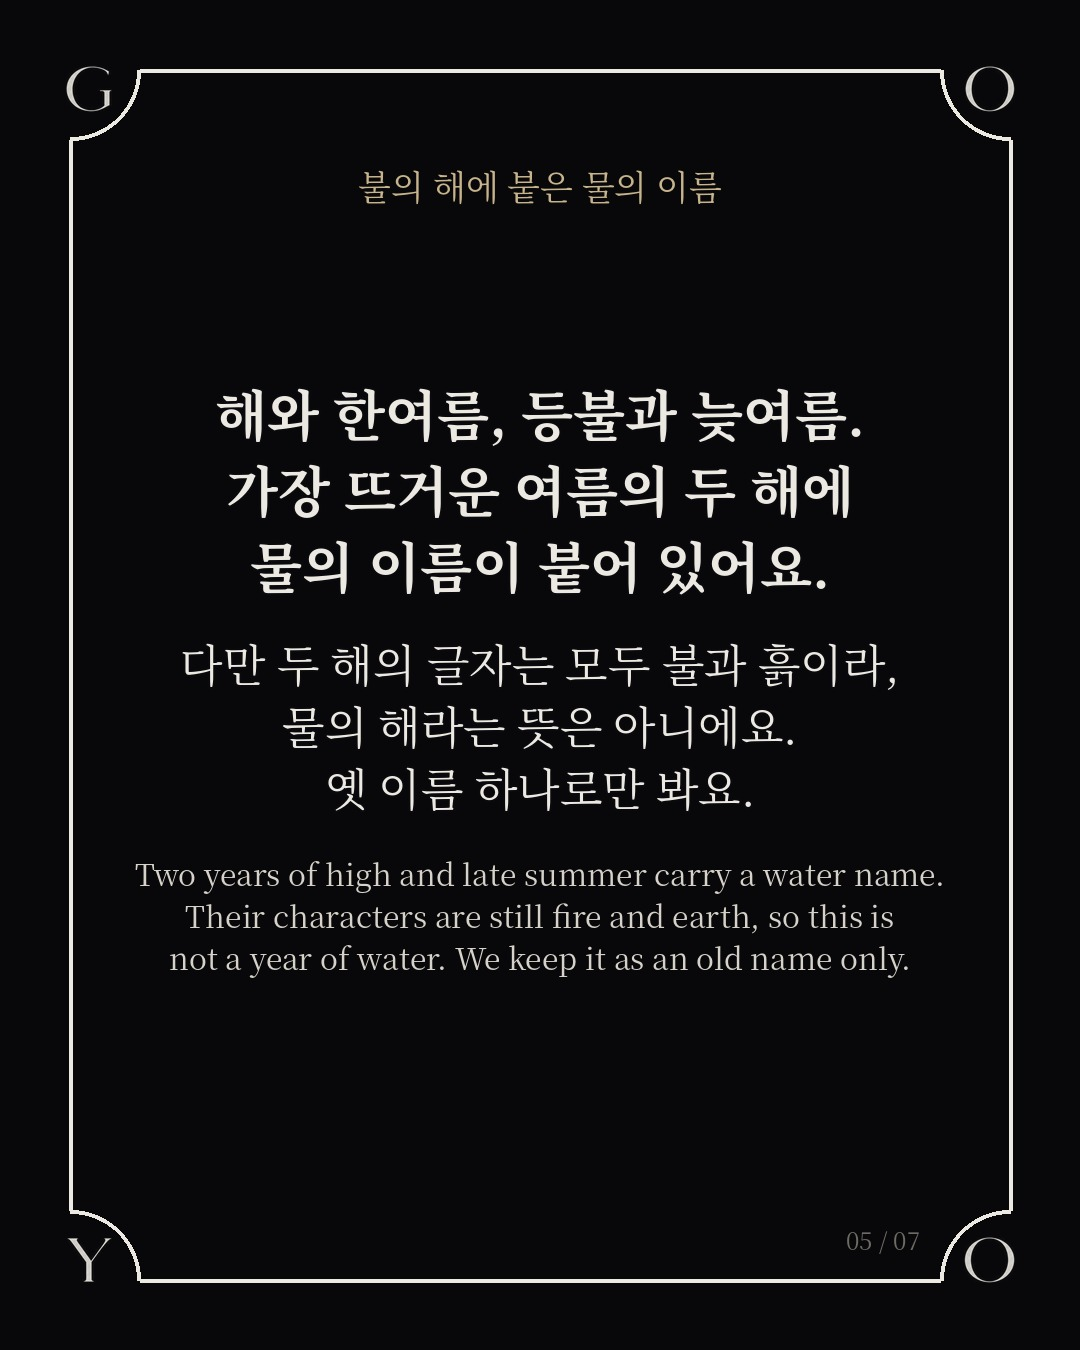
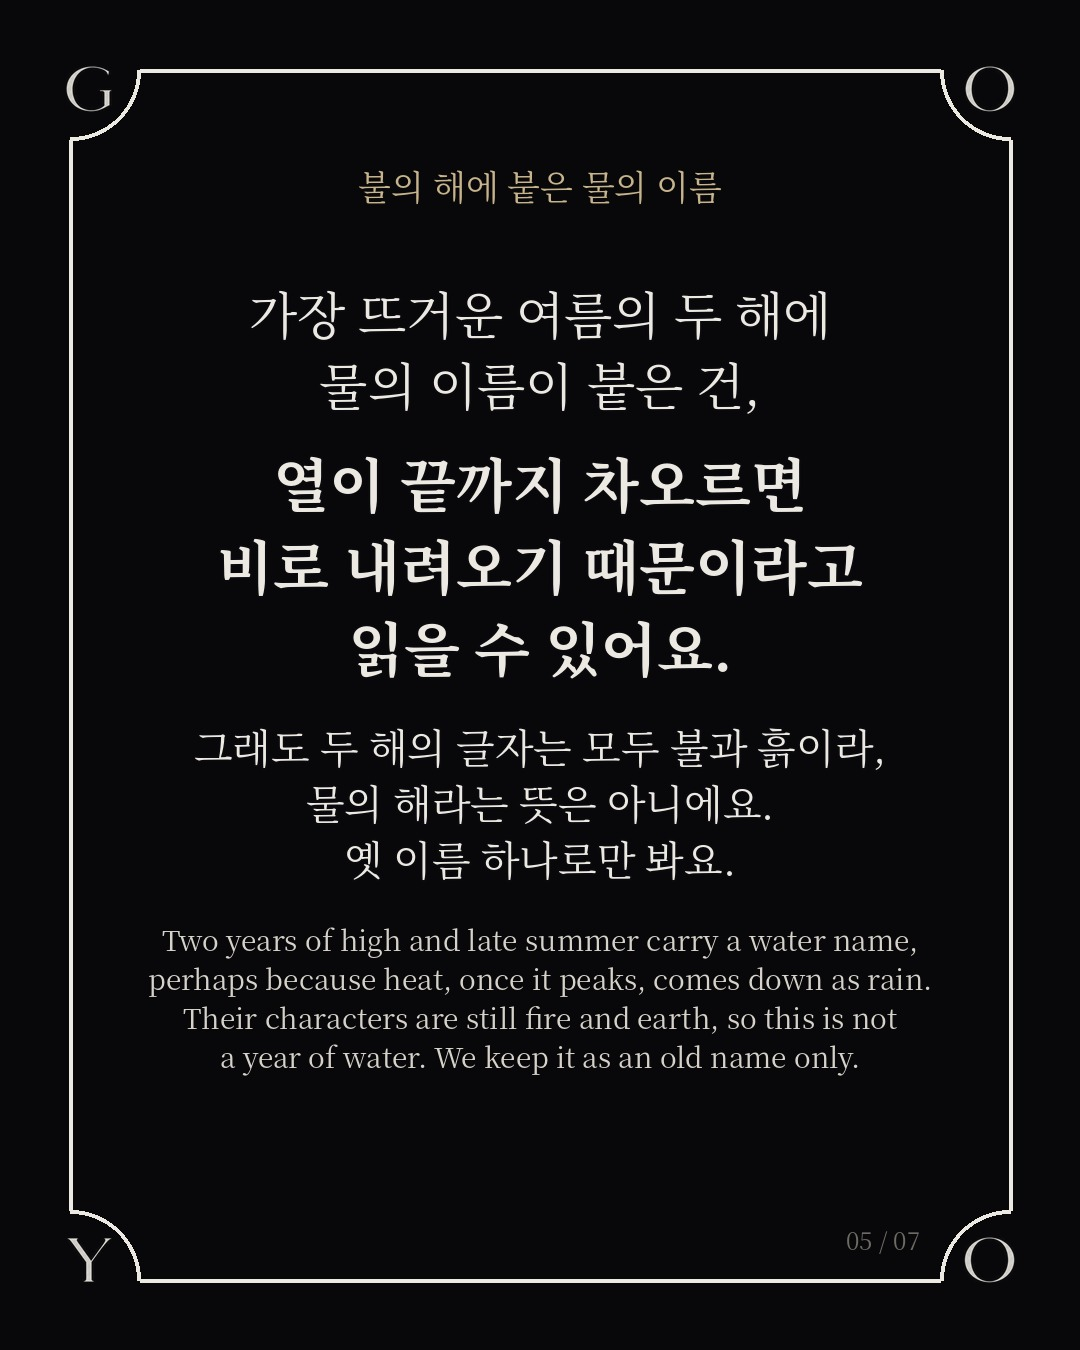
1/11 천하수를 '더위가 만든 비'로 다시 씀(은하수 뺌, 미오 님 11/21 23:10)
Claude-Session: https://claude.ai/code/session_01YKKUv5W4Y1G1o2h4KJ6tQ6

Changed region(s): [[0.1222, 0.2178, 0.8556, 0.8089], [0.1222, 0.6222, 0.1833, 0.6533]]

diff --git a/jeongmi/build.py b/jeongmi/build.py
@@ -722,15 +722,18 @@ P['0111'] = dict(
      T('둘이 함께 받은 이름은', 46, gap=20), T('천하수, 하늘의 물', 64, bold=True, gap=26),
      T('丙午 · 丁未  天河水', 40, GOLD, gap=34),
      T('2026, the 丙午 year (Byeong-o) · Yang Fire · Noon Fire,\nand 2027, the 丁未 year (Jeongmi)\n· Yin Fire · Afternoon Earth,\nshare one name: Cheonhasu, water from the sky.', 28, EN, gap=0)], tag='2026과 2027'),
-  S([T('옛사람들은 하늘의 물을', 46, gap=20), T('은하수처럼 하늘에 흐르는 물,\n땅으로 내리는 비와 이슬로\n풀이했어요.', 54, bold=True, gap=34),
-     T('Water from the sky was read as the Milky Way,\nand as the rain and dew that fall to earth.', 30, EN, gap=0)], tag='하늘의 물이란'),
-  S([T('해와 한여름, 등불과 늦여름.\n가장 뜨거운 여름의 두 해에\n물의 이름이 붙어 있어요.', 54, bold=True, gap=30),
-     T('다만 두 해의 글자는 모두 불과 흙이라,\n물의 해라는 뜻은 아니에요.\n옛 이름 하나로만 봐요.', 44, gap=34),
-     T('Two years of high and late summer carry a water name.\nTheir characters are still fire and earth, so this is\nnot a year of water. We keep it as an old name only.', 30, EN, gap=0)], tag='불의 해에 붙은 물의 이름'),
-  S([T('하늘의 물을\n그림으로 본다면', 60, bold=True, gap=30),
+  S([T('하늘의 물은\n더위가 만든 비예요.', 60, bold=True, gap=30),
+     T('한여름 달궈진 땅에서\n더운 공기가 올라가 구름이 되고,\n그 구름이 소나기로 쏟아져요.', 46, gap=26),
+     T('미(未)의 달, 7월 초~8월 초는\n장마와 소나기가 몰리는 때이기도 해요.', 40, GOLD, gap=34),
+     T('Water from the sky is rain made by heat. Air rising\nfrom sun-baked ground forms clouds that break into\nsudden showers. The month of 未 Afternoon Earth (Mito),\nearly July to early August, is also monsoon season.', 28, EN, gap=0)], tag='하늘의 물이란'),
+  S([T('가장 뜨거운 여름의 두 해에\n물의 이름이 붙은 건,', 50, gap=22),
+     T('열이 끝까지 차오르면\n비로 내려오기 때문이라고\n읽을 수 있어요.', 58, bold=True, gap=30),
+     T('그래도 두 해의 글자는 모두 불과 흙이라,\n물의 해라는 뜻은 아니에요.\n옛 이름 하나로만 봐요.', 40, gap=34),
+     T('Two years of high and late summer carry a water name,\nperhaps because heat, once it peaks, comes down as rain.\nTheir characters are still fire and earth, so this is not\na year of water. We keep it as an old name only.', 28, EN, gap=0)], tag='불의 해에 붙은 물의 이름'),
+  S([T('더위 끝의 소나기를\n그림으로 본다면', 58, bold=True, gap=30),
      T('다리 위로 갑자기 쏟아지는 비,\n히로시게의 「오하시 다리의 소나기」예요.', 44, gap=26),
      T('2월 4일 그림 읽기에서 이어 갈게요.', 42, GOLD, gap=34),
-     T('In a painting: Hiroshige\'s Sudden Shower over\nShin-Ōhashi Bridge and Atake (1857).\nMore in our Feb 4 painting post.', 30, EN, gap=0)], tag='그림으로 본다면'),
+     T('Such a shower in a painting: Hiroshige\'s\nSudden Shower over Shin-Ōhashi Bridge and Atake (1857).\nMore in our Feb 4 painting post.', 30, EN, gap=0)], tag='그림으로 본다면'),
   S([T('다섯 가지 고요', 56, bold=True, gap=10), T('임수 편', 96, bold=True, gap=34),
      T('넓게 고여 천천히 흐르는\n큰 물 같은 소리예요.', 52, gap=24), T('오늘은 『Morning Haze』를 골랐어요.', 42, gap=30),
      T('음악은 프로필 링크에서', 46, GOLD, gap=30),
@@ -740,11 +743,11 @@ P['0111'] = dict(
 
 옛사람들은 예순 개의 해 이름을 둘씩 묶고, 한 쌍마다 이름을 하나씩 붙였어요. 모두 서른 가지, 쇠·나무·물·불·흙의 모습을 빌린 이름이에요.
 
-병오(2026)와 정미(2027)는 한 쌍이에요. 둘이 함께 받은 이름은 천하수(天河水), 하늘의 물이에요. 은하수처럼 하늘에 흐르는 물, 땅으로 내리는 비와 이슬로 풀이하기도 해요.
+병오(2026)와 정미(2027)는 한 쌍이에요. 둘이 함께 받은 이름은 천하수(天河水), 하늘의 물이에요.
 
-해와 한여름, 등불과 늦여름. 가장 뜨거운 여름의 두 해에 물의 이름이 붙어 있어요. 다만 두 해의 글자는 모두 불과 흙이라, 물의 해라는 뜻은 아니에요. 옛 이름 하나로만 봐요. 사주로는 2월 4일 입춘부터 정미년이에요.
+하늘의 물은 더위가 만든 비예요. 한여름 달궈진 땅에서 더운 공기가 올라가 구름이 되고, 그 구름이 소나기로 쏟아져요. 미(未)의 달인 7월 초부터 8월 초까지는 장마와 소나기가 몰리는 때이기도 해요. 가장 뜨거운 여름의 두 해에 물의 이름이 붙은 건, 열이 끝까지 차오르면 비로 내려오기 때문이라고 읽을 수 있어요. 그래도 두 해의 글자는 모두 불과 흙이라, 물의 해라는 뜻은 아니에요. 옛 이름 하나로만 봐요. 사주로는 2월 4일 입춘부터 정미년이에요.
 
-하늘의 물을 그림으로 본다면, 다리 위로 갑자기 쏟아지는 비를 그린 히로시게의 「오하시 다리의 소나기」예요. 2월 4일 그림 읽기에서 이어 갈게요.
+더위 끝의 소나기를 그림으로 본다면, 다리 위로 갑자기 쏟아지는 비를 그린 히로시게의 「오하시 다리의 소나기」예요. 2월 4일 그림 읽기에서 이어 갈게요.
 
 넓게 고여 천천히 흐르는 큰 물 같은 소리, 『다섯 가지 고요｜임수(壬水)』. 오늘은 『Morning Haze』를 골랐어요. 프로필 링크에서 들을 수 있어요.
 
@@ -753,11 +756,11 @@ Water from the sky.
 
 Long ago, the sixty year-names were paired two by two, and each pair was given a name drawn from metal, wood, water, fire or earth.
 
-2026, the 丙午 year (Byeong-o) · Yang Fire · Noon Fire, and 2027, the 丁未 year (Jeongmi) · Yin Fire · Afternoon Earth, are one such pair. Their shared name is 天河水 Water from the Sky (Cheonhasu), read as the Milky Way and as the rain and dew that fall to earth.
+2026, the 丙午 year (Byeong-o) · Yang Fire · Noon Fire, and 2027, the 丁未 year (Jeongmi) · Yin Fire · Afternoon Earth, are one such pair. Their shared name is 天河水 Water from the Sky (Cheonhasu).
 
-Two years of high and late summer carry a water name. Their characters are still fire and earth, so this is not a year of water; we keep it as an old name only. In Saju, the 丁未 year begins on February 4.
+Water from the sky is rain made by heat. Air rising from sun-baked ground forms clouds that break into sudden showers, and the month of 未 Afternoon Earth (Mito), early July to early August, is also monsoon season. Two years of high and late summer may carry a water name because heat, once it peaks, comes down as rain. Their characters are still fire and earth, so this is not a year of water; we keep it as an old name only. In Saju, the 丁未 year begins on February 4.
 
-Seen in a painting, water from the sky looks like Hiroshige's Sudden Shower over Shin-Ōhashi Bridge and Atake (1857). More in our February 4 painting post.
+Seen in a painting, a summer shower like that looks like Hiroshige's Sudden Shower over Shin-Ōhashi Bridge and Atake (1857). More in our February 4 painting post.
 
 Music like wide, slow water: Five Kinds of Quiet · 壬水 Yang Water (Imsu). Today's pick is Morning Haze. Listen through the link in bio.
 
